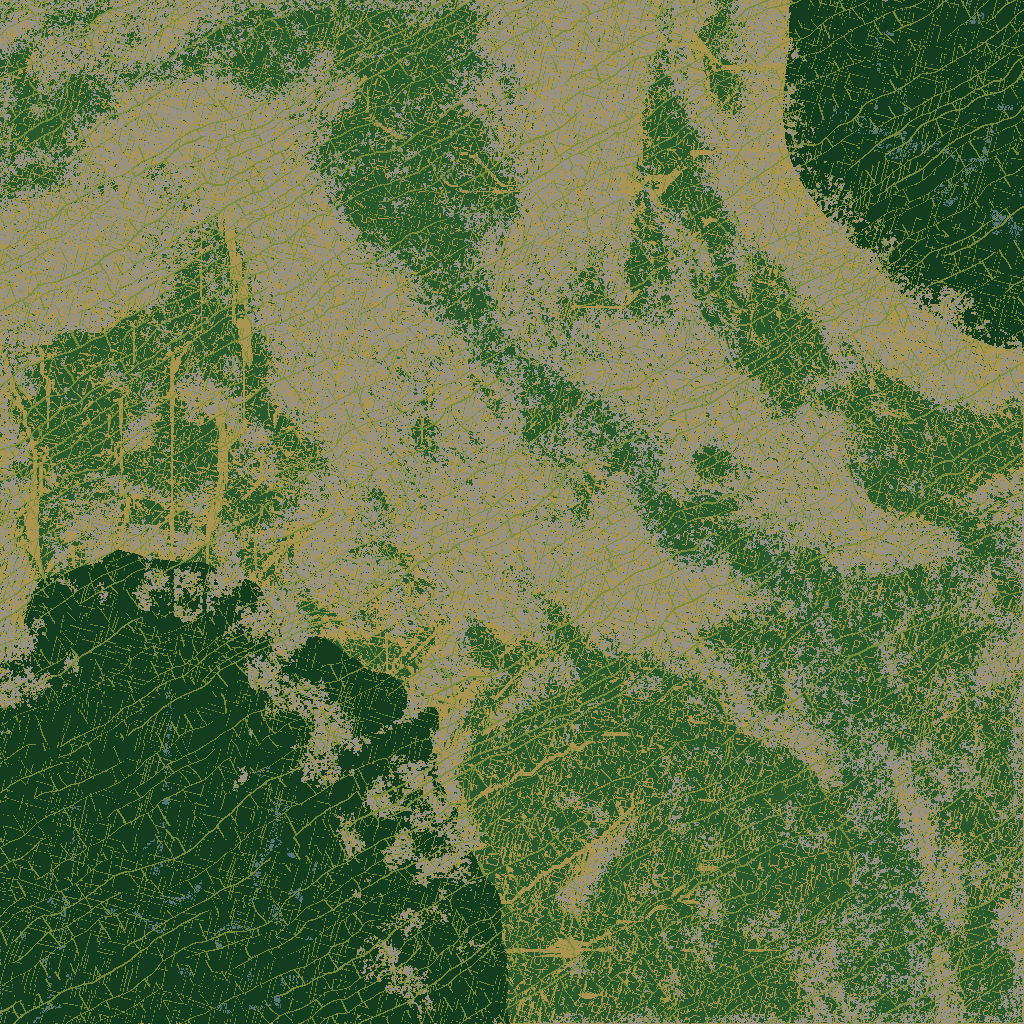
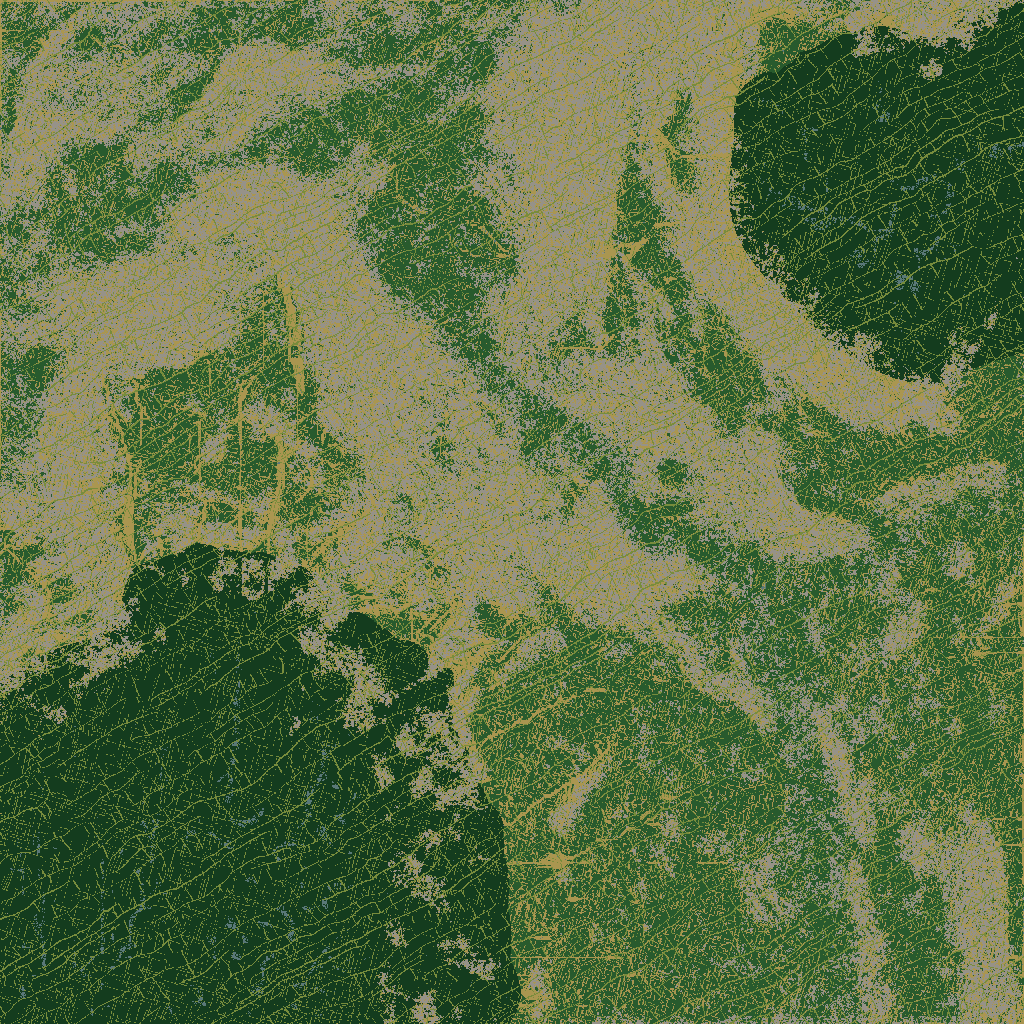
ROCK-STUDY: back to v1 with the ledges off; the macro over the whole 2 km patch and a far fade (the far ridge's bare tiles and dash grid); doc 5i
Claude-Session: https://claude.ai/code/session_01RorUqGnZYr6cCksM57mNfe

diff --git a/flyDiy/tools/rock_study/bench.js b/flyDiy/tools/rock_study/bench.js
@@ -17,6 +17,7 @@
 //               (rock_kit.js) laid on the faces as overlapping shards and scattered as outcrops / talus / edge blocks,
 //               instanced by (variant, LOD rung); the face's ground switches to the shards' own photograph (?faceset=0 not);
 //               ?eco=1 the phone's ladder; ?rset=cliff|darkRock|rocksG the rock's photograph; ?kit=1 the kit on a stand
+//   (17 Nov, the user: "forget about ledges, v1 is good as-is": the ledges are OFF unless ?ledges=1)
 //   ?view=face|near|slope|high|top|ground  ?w=&h=  ?shadows=0  ?plain=1 (the geometry alone)  ?count=1 (texture fetches per pixel)
 'use strict';
 (async () => {
@@ -121,7 +122,7 @@ if (TROND) {
   const mH = new Float32Array(await B(T + 'macro_h.f32'));
   TRD = { jS, jF, jM, mH, U: { uTSA: { value: tex(sA, n, 1) }, uTSN: { value: tex(sN, n, 1) }, uTFA: { value: tex(fA, n, 1) }, uTFN: { value: tex(fN, n, 1) },
     uTMNH: { value: tex(new Uint8Array(mNH), jM.n, 0) }, uTMM: { value: tex(new Uint8Array(mMu), jM.n, 0) }, uTRK: { value: tex(new Uint8Array(mRk), jM.n, 0) },
-    uTM: { value: new THREE.Vector4(jM.x0, jM.z0, jM.ext, jM.multScale) }, uTScale: { value: new THREE.Vector2(jS.tile, jF.tile) } } };
+    uTM: { value: new THREE.Vector4(jM.x0, jM.z0, jM.ext, jM.multScale) }, uTMeanS: { value: new THREE.Vector3(...jS.meanAlbedo) }, uTMeanF: { value: new THREE.Vector3(...jF.meanAlbedo) }, uTScale: { value: new THREE.Vector2(jS.tile, jF.tile) } } };
   // the macro's height at (x, z), bilinear, 0 off its extent (the rock mesh's displacement, on the CPU: the shadows see it)
   const med = (() => { const a = Array.from(mH.filter((v, i) => i % 97 === 0)).sort((p, q) => p - q); return a[a.length >> 1]; })();
   // the rock's exposure at (x, z) (0..1), bilinear; -1 off the macro's extent (the raster decides there)
@@ -160,7 +161,7 @@ if (TSKIRT && TRD) for (let j = 0; j < N; j++) for (let i = 0; i < N; i++) { con
 // two more Manhattan F2 at other scales, one to the power 0.025 (it flattens to plateaus with sharp steps), one to 0.2;
 // max of the two families, minus log_0.05(F2) (sharpens the crests), minus fBm/40, to the power 1.2 ('pointiness').
 // Evaluated in 3D at every vertex of the rock mesh (no stretch on a face), at UNIT metres (one Blender unit = 9 m here).
-const MED = { unit: 12.0, amp: Q.get('medamp') !== null ? +Q.get('medamp') : 1.5, lift: 0.6 };
+const MED = { unit: 12.0, amp: 1.5, lift: 0.6 };
 const vor3 = (x, y, z, sc, seed) => {   // -> [F1 manhattan, F2 manhattan, edge (euclid F2 - F1) / 2, cell id]
   x *= sc; y *= sc; z *= sc; const X = Math.floor(x), Y = Math.floor(y), Z = Math.floor(z);
   let f1 = 1e9, f2 = 1e9, e1 = 1e9, e2 = 1e9, id = 0;
@@ -193,51 +194,23 @@ function medium(x, y, z) {
 // 120 m has its own dip (6-20 deg, any direction) and the steps are warped by a 9 m noise at 35 m, so they never line up into
 // contour rings (the 'fingerprint' the user rejected in the first trial); along a step, a 25 m noise breaks it into segments
 // of 10-40 m (and gives each its own strength). Vertical, so a tread is level and a riser stands; up to +-T/2.
-let LEDGE_TR = 0, LEDGE_K = 0;   // the last stairDY call's tread (+) / riser (-) state x its strength, and the strength alone
-// THE LEDGES v2 (16 Nov, the user on v1: "should all be in the direction of the slope ... the random orientation and the too
-// small scale ... break the pattern a lot, otherwise it looks like a quarry"): the steps FOLLOW THE CONTOURS (a dip of 0-4 deg
-// at most, its direction drifting per 300 m cell, and two warps - +-4 m at 120 m, +-0.8 m at 40 m - that bend them), they are BIG
-// (8-16 m, up to x1.8 on the steep: a step must span 8+ vertices of the 1.25 m mesh), and they are BROKEN at four scales: a patch
-// mask (120 m, ~half the exposed rock), only ~half the beds carry a ledge at all (hashed per bed), along a ledge a 45 m noise
-// cuts it into 20-80 m segments with gaps, and each segment has its own strength and its own step position (the riser starts
-// at 45-75 % of the step). SOFT: the riser takes the whole last 25-55 % of the step, the amplitude is 0.65 of the stair's,
-// and the mesh smooths it twice. On 15-76 deg; inside a ledge patch the Blender masses yield (x0.3). ?ledgev=1: v1's law (random dip, 5-10 m).
+let LEDGE_TR = 0;   // the last stairDY call's tread (+) / riser (-) state, x its strength
 function stairDY(x, y, z, eX, slopeDeg) {
-  LEDGE_TR = 0; LEDGE_K = 0;
+  LEDGE_TR = 0;
   if (eX < 0.05) return 0;
-  if (Q.get('ledgev') === '1') {
-    const pm = ss(0.40, 0.52, vn3(x / 90, 4.1, z / 90)) * ss(16, 24, slopeDeg) * (1 - ss(46, 54, slopeDeg));
-    if (pm < 0.01) return 0;
-    const cx = Math.floor(x / 120), cz = Math.floor(z / 120);
-    const da = hh(cx, cz, 61) * 6.2832, dk = Math.tan((6 + 14 * hh(cx, cz, 62)) * Math.PI / 180);
-    const T = 5.0 + 5.0 * vn3(x / 90, 7.7, z / 90);
-    const yq = y + dk * (x * Math.cos(da) + z * Math.sin(da)) + (vn3(x / 60, 2.2, z / 60) - 0.5) * 7.0 + (vn3(x / 20, 3.3, z / 20) - 0.5) * 2.0;
-    const sy = yq / T, bed = Math.floor(sy), fr = sy - bed;
-    const seg = ss(0.25, 0.5, vn3(x / 45, bed * 1.37, z / 45)) * (0.6 + 0.4 * hh(bed, Math.floor(x / 30), 63));
-    const K = ss(0.2, 0.5, pm) * ss(0.25, 0.6, seg) * ss(0.2, 0.6, eX);
-    LEDGE_TR = K * ((1 - ss(0.05, 0.5, fr)) * ss(0.0, 0.05, fr) - ss(0.6, 0.85, fr) * (1 - ss(0.95, 1.0, fr)));
-    return (bed + ss(0.5, 1.0, fr) - sy) * T * K;
-  }
-  const pm = ss(0.34, 0.48, vn3(x / 120, 4.1, z / 120)) * ss(15, 22, slopeDeg) * (1 - ss(72, 80, slopeDeg));
+  const pm = ss(0.40, 0.52, vn3(x / 90, 4.1, z / 90)) * ss(16, 24, slopeDeg) * (1 - ss(46, 54, slopeDeg));
   if (pm < 0.01 && Q.get('ledgetest') !== '1') return 0;
-  const cx = Math.floor(x / 300), cz = Math.floor(z / 300);
-  const da = hh(cx, cz, 61) * 6.2832, dk = Math.tan(4 * hh(cx, cz, 62) * Math.PI / 180);
-  const T = (8 + 8 * vn3(x / 110, 7.7, z / 110)) * (1 + 0.8 * ss(35, 65, slopeDeg));   // (x1.8 on the steep: a step spans 8+ vertices)
-  // (the bends' warps SMALL against the slope: at 16 m over 90 m their gradient reached +-1.2 m/m on a 1.5 m/m face and squeezed the
-  // steps into lumps - measured on a profile; now <= 0.25 m/m)
-  const yq = y + dk * (x * Math.cos(da) + z * Math.sin(da)) + (vn3(x / 120, 2.2, z / 120) - 0.5) * 8.0 + (vn3(x / 40, 3.3, z / 40) - 0.5) * 1.6;
+  const cx = Math.floor(x / 120), cz = Math.floor(z / 120);
+  const da = hh(cx, cz, 61) * 6.2832, dk = Math.tan((6 + 14 * hh(cx, cz, 62)) * Math.PI / 180);
+  const T = 5.0 + 5.0 * vn3(x / 90, 7.7, z / 90);
+  const yq = y + dk * (x * Math.cos(da) + z * Math.sin(da)) + (vn3(x / 60, 2.2, z / 60) - 0.5) * 7.0 + (vn3(x / 20, 3.3, z / 20) - 0.5) * 2.0;
   const sy = yq / T, bed = Math.floor(sy), fr = sy - bed;
-  const bedOn = hh(bed, 5, 64) < 0.7 ? 1 : 0;
-  const segN = vn3(x / 45, bed * 1.37, z / 45);
-  const seg = ss(0.34, 0.5, segN) * bedOn;
-  const sk = Math.floor(segN * 7 + x / 400);   // a segment's own key, for its strength and its step position
-  const strength = 0.45 + 0.55 * hh(bed, sk, 65), r0 = 0.45 + 0.3 * hh(bed, sk, 66);
-  if (Q.get('ledgetest') === '1') return (bed + ss(r0, 1.0, fr) - sy) * T * 0.65;
-  const K = ss(0.1, 0.4, pm) * seg * strength * ss(0.15, 0.5, eX);
-  if (K < 0.005) return 0;
-  LEDGE_K = K;
-  LEDGE_TR = K * ((1 - ss(0.0, r0 * 0.8, fr)) * ss(0.0, 0.04, fr) - ss(r0 + 0.05, 0.92, fr) * (1 - ss(0.96, 1.0, fr)) * 0.7);
-  return (bed + ss(r0, 1.0, fr) - sy) * T * 0.9 * K;
+  const seg = ss(0.25, 0.5, vn3(x / 45, bed * 1.37, z / 45)) * (0.6 + 0.4 * hh(bed, Math.floor(x / 30), 63));
+  const q = bed + ss(0.5, 1.0, fr);   // the tread holds the step's floor, the riser climbs in the last 30 %
+  if (Q.get('ledgetest') === '1') return (q - sy) * T;
+  const K = ss(0.2, 0.5, pm) * ss(0.25, 0.6, seg) * ss(0.2, 0.6, eX);
+  LEDGE_TR = K * ((1 - ss(0.05, 0.5, fr)) * ss(0.0, 0.05, fr) * 1.0 - ss(0.6, 0.85, fr) * (1 - ss(0.95, 1.0, fr)));   // the tread's inner half +, the riser -
+  return (q - sy) * T * K;
 }
 let MEDN = null;   // its normalisation (mean, sd), measured once on the patch's own points
 const medNorm = () => { if (MEDN) return MEDN; let s1 = 0, s2 = 0, n = 0;
@@ -312,8 +285,7 @@ function buildSkirt(step) {
       eX = ex0 < 0 ? m : ss(0.25, 0.75, ex0) * Math.min(1, m * 3);
       med = medium(x, y, z); const [mu, sd] = medNorm();
       const g = gradXZ(x, z, 5), l = Math.hypot(g[0], 1, g[1]);
-      { const sdy = stairDY(x, y, z, eX, Math.atan(Math.hypot(g[0], g[1])) * 57.2958);   // (inside a ledge patch the masses yield: the steps read clean)
-        DEF.push(-g[0] / l, 1 / l, -g[1] / l, TRD.hAt(x, z) * Math.min(1, m * 3), (med.h - mu) / sd * (1 - 0.7 * LEDGE_K), eX, sdy, LEDGE_TR); }
+      DEF.push(-g[0] / l, 1 / l, -g[1] / l, TRD.hAt(x, z) * Math.min(1, m * 3), (med.h - mu) / sd, eX, stairDY(x, y, z, eX, Math.atan(Math.hypot(g[0], g[1])) * 57.2958), LEDGE_TR);
     } else if (m > 0 || TSKIRT) {
       if (TSKIRT) { DEF.push(0, 1, 0, 0, 0, 0, 0, 0); } else {
       const g = gradXZ(x, z, 5), gl2 = Math.hypot(g[0], g[1]) || 1e-6, ox = -g[0] / gl2, oz = -g[1] / gl2;   // outward = downhill
@@ -357,10 +329,10 @@ function buildSkirt(step) {
       zc = o; }
     // (the ledges' step smoothed over the mesh too, one pass: a riser sharper than the 1.25 m lattice aliased into a comb)
     let st = new Float32Array(nv); for (let v = 0; v < nv; v++) st[v] = DEF[v * 8 + 6];
-    for (let pass = 0; pass < 2; pass++) { const o = new Float32Array(nv); for (let v = 0; v < nv; v++) { const L = nb[v]; if (!L.length) { o[v] = st[v]; continue; } let a = 0; for (const u of L) a += st[u]; o[v] = st[v] * 0.5 + 0.5 * a / L.length; } st = o; }
+    { const o = new Float32Array(nv); for (let v = 0; v < nv; v++) { const L = nb[v]; if (!L.length) { o[v] = st[v]; continue; } let a = 0; for (const u of L) a += st[u]; o[v] = st[v] * 0.5 + 0.5 * a / L.length; } st = o; }
     for (let v = 0; v < nv; v++) DEF[v * 8 + 6] = st[v];
     for (let v = 0; v < nv; v++) { const k = v * 8, dd = DEF[k + 3] + DEF[k + 5] * (MED.lift + MED.amp * 0.6 * zc[v]);
-      P3[v * 3] += DEF[k] * dd; P3[v * 3 + 1] += DEF[k + 1] * dd + (Q.get('ledges') === '0' ? 0 : DEF[k + 6]); P3[v * 3 + 2] += DEF[k + 2] * dd; }
+      P3[v * 3] += DEF[k] * dd; P3[v * 3 + 1] += DEF[k + 1] * dd + (Q.get('ledges') !== '1' ? 0 : DEF[k + 6]); P3[v * 3 + 2] += DEF[k + 2] * dd; }
   }
   const g = new THREE.BufferGeometry();
   g.setAttribute('position', new THREE.BufferAttribute(new Float32Array(P3), 3));
@@ -369,7 +341,7 @@ function buildSkirt(step) {
   g.setIndex(new THREE.BufferAttribute(new Uint32Array(idx), 1)); g.computeVertexNormals();
   g.setAttribute('aDisp', new THREE.BufferAttribute(new Float32Array(P3.length / 3).fill(TSKIRT ? 1 : 0), 1));
   g.setAttribute('aMed', new THREE.BufferAttribute(new Float32Array(MD), 2));
-  { const L = new Float32Array(nv); if (DEF.length === nv * 8) for (let v = 0; v < nv; v++) L[v] = DEF[v * 8 + 7]; g.setAttribute('aLedge', new THREE.BufferAttribute(L, 1)); }
+  { const L = new Float32Array(nv); if (DEF.length === nv * 8 && Q.get('ledges') === '1') for (let v = 0; v < nv; v++) L[v] = DEF[v * 8 + 7]; g.setAttribute('aLedge', new THREE.BufferAttribute(L, 1)); }
   return { g, cells: cells.length };
 }
 
@@ -472,7 +444,7 @@ Smp sRock(float Lm, float sN, float sF, vec3 P, vec3 tw, float fw, float d, floa
 //   the two blended by slope (42-58 deg) through their heights; the macro multiplies the colour and, off the displaced mesh,
 //   bends the normal (on the displaced mesh the geometry IS the macro's relief).
 // The normal comes back as a WORLD perturbation at the maps' own scale (m/m), the colour linear, .a the height (0..1).
-uniform sampler2D uTSA, uTSN, uTFA, uTFN, uTMNH, uTMM, uTRK; uniform vec4 uTM; uniform vec2 uTScale;
+uniform sampler2D uTSA, uTSN, uTFA, uTFN, uTMNH, uTMM, uTRK; uniform vec4 uTM; uniform vec2 uTScale; uniform vec3 uTMeanS, uTMeanF;
 varying float vDisp; varying vec2 vMed; varying float vLedge;
 vec2 tVst(vec2 v){ return vec2(v.x + 0.5 * v.y, v.y * 0.8660254) * 0.5; }
 // one hex lattice for both: the three corners in the 3-colour order (splat_ground sTile's line-free fetch), their weights
@@ -529,6 +501,11 @@ Smp sTrond(vec3 P, vec3 nGeo, float slope){
     float k = smoothstep(0.3, 0.7, kx);
     fa.c = mix(b.c, a.c, k); fa.n = mix(b.n, a.n, k);
   }
+  // THE FAR FADE (17 Nov, the user's red circle: the far ridge read as a grid of dark dashes): the 24 / 40 m tiles' own
+  // large patterns survive the mips and repeat at a kilometre; past 400 m they give way (to 1200 m, 80 %) to their mean
+  // colour and a flat normal - the macro (colour multiplier, exposure, veins) carries the variation out there
+  { float fd = 0.8 * smoothstep(400.0, 1200.0, distance(P, cameraPosition));
+    if (fd > 0.0) { sl.c.rgb = mix(sl.c.rgb, uTMeanS, fd); fa.c.rgb = mix(fa.c.rgb, uTMeanF, fd); sl.n.xyz *= 1.0 - fd; fa.n.xyz *= 1.0 - fd; } }
   if (fw <= 0.001) o = sl; else if (fw >= 0.999) o = fa;
   else { vec2 h = hw2(sl.c.a, 1.0 - fw, fa.c.a, fw, 0.1); o.c = sl.c * h.x + fa.c * h.y; o.n = sl.n * h.x + fa.n * h.y; }
   // THE PBR MICRO DETAIL (16 Nov, the user: "take a PBR texture of rock, probably one we have already ... blended with your
@@ -564,8 +541,8 @@ Smp sTrond(vec3 P, vec3 nGeo, float slope){
   // ground's own grass set (grassRock, layer 0) read from above, pushed lusher, darkened to moss where it is thin.
   {
     float n1 = vnoise(P.xz / 7.0 + 3.1), n2 = vnoise(P.xz / 1.7 - 9.4);
-    float crackM = max(max(1.0 - smoothstep(0.10, 0.32, hm), vMed.x * 0.9), clamp(vLedge, 0.0, 1.0) * 0.8);   // (a ledge's tread holds soil)
-    o.c.rgb *= 1.0 - 0.25 * clamp(-vLedge, 0.0, 1.0);   // (a riser: the bare, shaded step)
+    float crackM = max(max(1.0 - smoothstep(0.10, 0.32, hm), vMed.x * 0.9), clamp(vLedge, 0.0, 1.0) * 0.95);   // (a ledge's tread holds soil)
+    o.c.rgb *= 1.0 - 0.35 * clamp(-vLedge, 0.0, 1.0);   // (a riser: the bare, shaded step)
     o.c.rgb *= mix(1.0, 0.55, vMed.x) * (0.9 + 0.2 * vMed.y);   // the medium relief's crevices darker, each mass its own tone
     float up = smoothstep(0.80, 0.96, nGeo.y) * (0.35 + 0.65 * n1);
     float G = clamp(vegM * 1.15 + crackM * 0.6 + up * 0.55, 0.0, 1.0) * (0.55 + 0.6 * n2);
@@ -777,7 +754,7 @@ function surfY(x, z) {
   const eX = ex0 < 0 ? m : ss(0.25, 0.75, ex0) * Math.min(1, m * 3);
   const med = medium(x, y0, z), [mu, sd] = medNorm(), z0 = (med.h - mu) / sd, zc = z0 > 0 ? z0 / (1 + 0.55 * z0) : z0 / (1 - 0.25 * z0);
   const g = gradXZ(x, z, 5), l = Math.hypot(g[0], 1, g[1]);
-  return y0 + (TRD.hAt(x, z) * Math.min(1, m * 3) + eX * (MED.lift + MED.amp * 0.6 * zc)) / l + (Q.get('ledges') === '0' ? 0 : stairDY(x, y0, z, eX, Math.atan(Math.hypot(g[0], g[1])) * 57.2958));
+  return y0 + (TRD.hAt(x, z) * Math.min(1, m * 3) + eX * (MED.lift + MED.amp * 0.6 * zc)) / l + (Q.get('ledges') !== '1' ? 0 : stairDY(x, y0, z, eX, Math.atan(Math.hypot(g[0], g[1])) * 57.2958));
 }
 async function buildScatter() {
   // RULES (per candidate on a jittered 2 m lattice, CPU, once): a TALUS field - the concave foot of a face (a cell within
@@ -1207,13 +1184,6 @@ const VIEWS = {
     return [[ex, Math.max(hXZ(ex, ez) + 14, ty + 18), ez], [tx, ty, tz]]; },
   ground: () => { const tx = sl2[0], tz = sl2[1], ty = hXZ(tx, tz); const g = gradXZ(tx, tz, 10), l = Math.hypot(g[0], g[1]); const ex = tx - g[0] / l * 30, ez = tz - g[1] / l * 30;
     return [[ex, hXZ(ex, ez) + 2.2, ez], [tx, ty + 6, tz]]; },
-  // ledge: the densest ledge patch within 500 m (the strength of the ledge law summed over 60 m discs), from 160 m downhill
-  ledge: () => { let bestL = null; const K = [];
-    for (let z = -480; z <= 480; z += 12) for (let x = -480; x <= 480; x += 12) { const e = TRD ? Math.max(0, TRD.eAt(x, z)) : 1; stairDY(x, hXZ(x, z), z, e, slopeAt(x, z)); K.push([x, z, LEDGE_K]); }
-    for (let z = -420; z <= 420; z += 30) for (let x = -420; x <= 420; x += 30) { let a = 0; for (const k of K) if ((k[0] - x) ** 2 + (k[1] - z) ** 2 < 3600) a += k[2]; if (!bestL || a > bestL[2]) bestL = [x, z, a]; }
-    const tx = bestL[0], tz = bestL[1], ty = hXZ(tx, tz), g = gradXZ(tx, tz, 20), l = Math.hypot(g[0], g[1]) || 1;
-    const ex = tx - g[0] / l * 160, ez = tz - g[1] / l * 160;
-    return [[ex, Math.max(hXZ(ex, ez) + 25, ty + 15), ez], [tx, ty + 5, tz]]; },
   top: () => { const tx = best[0], tz = best[1], ty = hXZ(tx, tz); return [[tx + 0.1, ty + 700, tz + 0.1], [tx, ty, tz]]; },
   high: () => { const tx = best[0] - dnX * 60, tz = best[1] - dnZ * 60, ty = hXZ(tx, tz); const ex = tx + dnX * 620 - dnZ * 160, ez = tz + dnZ * 620 + dnX * 160;
     return [[ex, Math.max(ty, hXZ(ex, ez)) + 520, ez], [tx, ty - 80, tz]]; },
@@ -1261,7 +1231,7 @@ function fragSource() { const pr = renderer.info.programs.find(p => p.cacheKey &
   const ext = gl.getExtension('WEBGL_debug_shaders');
   let src = ext ? ext.getTranslatedShaderSource(sh) : ''; const translated = !!src; if (!src) src = gl.getShaderSource(sh);
   return { chars: src.length, lines: src.split('\n').length, textureSites: (src.match(/texture\s*\(/g) || []).length, translated }; }
-window.BENCH = { ready: true, render, measure, counts, info, setView, fragSource, scene, camera, THREE, stairDY, hXZ, slopeAt };
+window.BENCH = { ready: true, render, measure, counts, info, setView, fragSource, scene, camera, THREE };
 render();
 msg(`rock=${P.rock} tri=${P.tri} expo=${P.expo} strata=${P.strata} scatter=${P.scatter} skirt=${P.skirt} view=${P.view} | ${renderer.info.render.calls} draws, ${(renderer.info.render.triangles / 1000).toFixed(0)} k tris`);
 })().catch(e => { document.getElementById('msg').textContent = 'failed: ' + e.message + '\n' + e.stack; window.BENCH = { ready: false, error: String(e) }; });

diff --git a/flyDiy/tools/rock_study/trond_gen.py b/flyDiy/tools/rock_study/trond_gen.py
@@ -586,6 +586,6 @@ if __name__ == '__main__':
     todo = a.only.split(',')
     if 'slab' in todo: slab(a.n, a.tile, a.seed)
     if 'face' in todo: face(a.n, a.tile, a.seed + 100)
-    if 'macro' in todo: macro(2048, 1600.0, a.seed + 200)
+    if 'macro' in todo: macro(2560, 2000.0, a.seed + 200)   # (17 Nov: the whole 2 km patch - at 1.6 km the far ridge fell outside it and showed the bare tiles)
     names = [n for n in ('slab', 'face') if n in todo]
     if names: contact(names)

diff --git a/flyDiy/futureDesigns/ROCK-STUDY-2026-11.md b/flyDiy/futureDesigns/ROCK-STUDY-2026-11.md
@@ -601,6 +601,22 @@ quarry". The reference was the early shader-strata still: contour-following band
   keyed to the regional joints rather than to noise.
 - If v2 does not convince, `claude/rock-study-v1` is the fall-back.
 
+### 5i. Back to v1, ledges off; the far ridge fixed (17 Nov)
+
+**The user:** "forget about ledges, v1 is good as-is". `bench.js` is v1's again, with the ledges OFF unless `?ledges=1`; that
+includes their colour on treads and risers. Section 5h stays as a record.
+
+**The user's red circle** (the high view's far ridge, white, with a grid of dark dashes) was the bench's own limit. The
+ridge lay outside the 1.6 km macro bake, so the rock fell back to the raw tiles: no colour multiplier, no exposure mosaic,
+and the 40 m face tile's streaks repeating unbroken. Two fixes:
+- **The macro now covers the whole 2 km patch** (2560² at 0.78 m; 77 s to bake). The vegetation maps follow it and their
+  README is updated (2 km, 1.953 m a pixel, origin (8540, -6140)).
+- **THE FAR FADE.** Past 400 m (80 % by 1200 m) the slab and face tiles give way to their mean colour and a flat normal;
+  the macro carries the variation out there.
+
+Stills: `v1/high_farfix.jpg` (as shot, then fixed) and `v1/high_v1.jpg`. **In the game this is the same lesson at island
+scale:** the macro must be procedural, not a bake (5g).
+
 ## 6. Recommendation: what to build first, what it costs, what it changes
 
 **Build first: rock clusters in the cover ring.** It changes the most of what an aeroplane sees, for the least risk.

diff --git a/flyDiy/reports/evidence/ROCK-STUDY/vegmaps/README.md b/flyDiy/reports/evidence/ROCK-STUDY/vegmaps/README.md
@@ -1,6 +1,6 @@
 # Vegetation placement maps over Mount Ardent, from ROCK-STUDY (16 Nov 2026), for the subalpine-biome session
 
-These maps cover 1.6 km x 1.6 km of Jolene round Mount Ardent. They are a by-product of the rock study's macro bake
+These maps cover 2 km x 2 km of Jolene round Mount Ardent (17 Nov: was 1.6 km). They are a by-product of the rock study's macro bake
 (`flyDiy/tools/rock_study/trond_gen.py`, `macro()`), computed from the island's own data:
 
 - the 5 m IFSAR DEM's height, slope and 20 m curvature;
@@ -19,12 +19,12 @@ python3 flyDiy/tools/rock_study/trond_gen.py --only macro
 ```
 
 **Frame.** `veg_maps.json` holds the frame:
-- 1024 x 1024 pixels at 1.5625 m each;
+- 1024 x 1024 pixels at 1.953 m each;
 - rows run along z (south), columns along x (east);
-- pixel (0, 0) is world (9540 - 800, -5140 - 800) = (8740, -5940);
-- world x = 8740 + (col + 0.5) x 1.5625, world z = -5940 + (row + 0.5) x 1.5625.
+- pixel (0, 0) is world (9540 - 1000, -5140 - 1000) = (8540, -6140);
+- world x = 8540 + (col + 0.5) x 1.953, world z = -6140 + (row + 0.5) x 1.953.
 
-The full-resolution 2048² maps (0.78 m a pixel) are in `flyDiy/tools/rock_study/data/trond/`, which is gitignored and
+The full-resolution 2560² maps (0.78 m a pixel) are in `flyDiy/tools/rock_study/data/trond/`, which is gitignored and
 regenerated by the two commands above.
 
 `veg_maps_1024.png` is RGBA, each channel 0..255:
